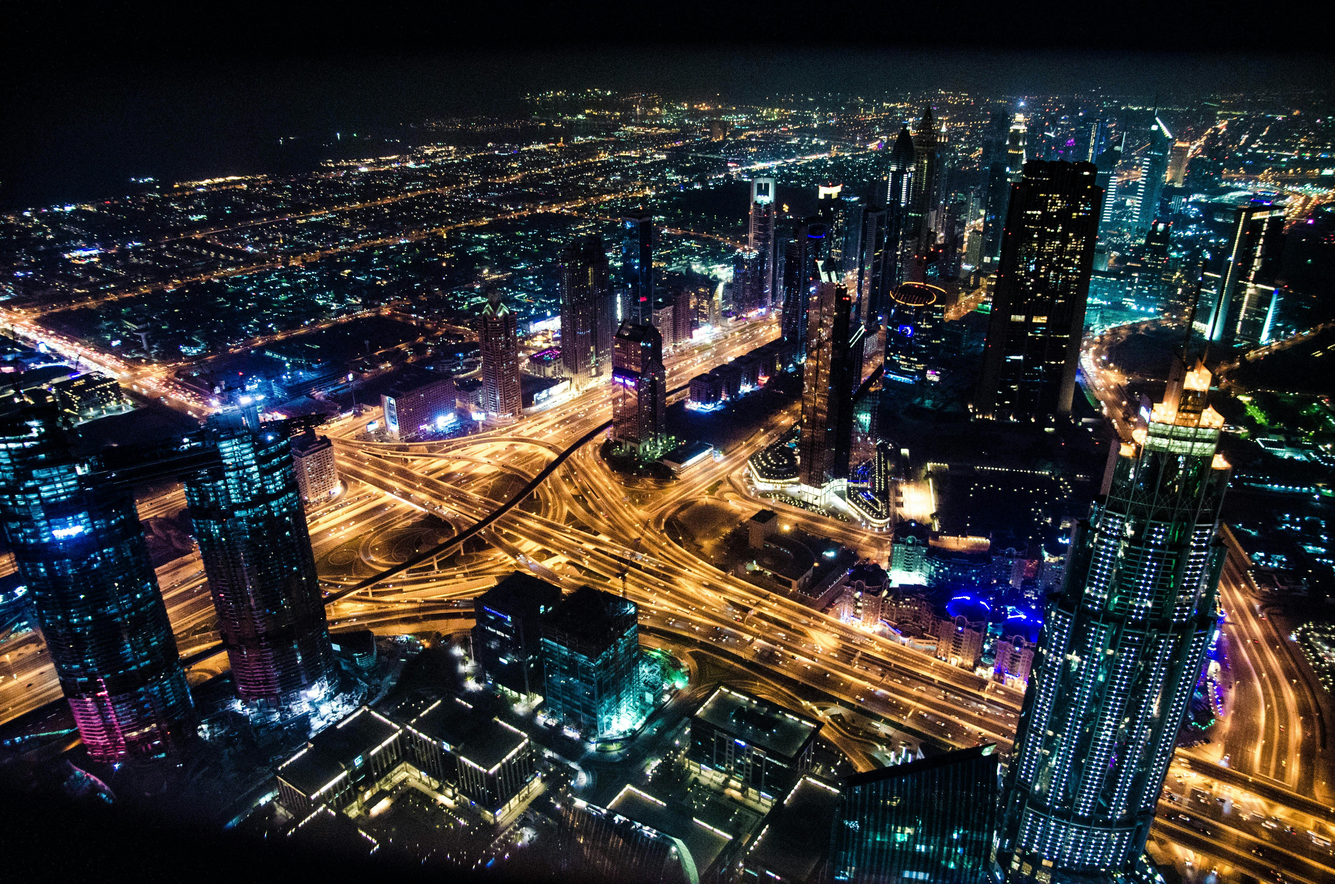
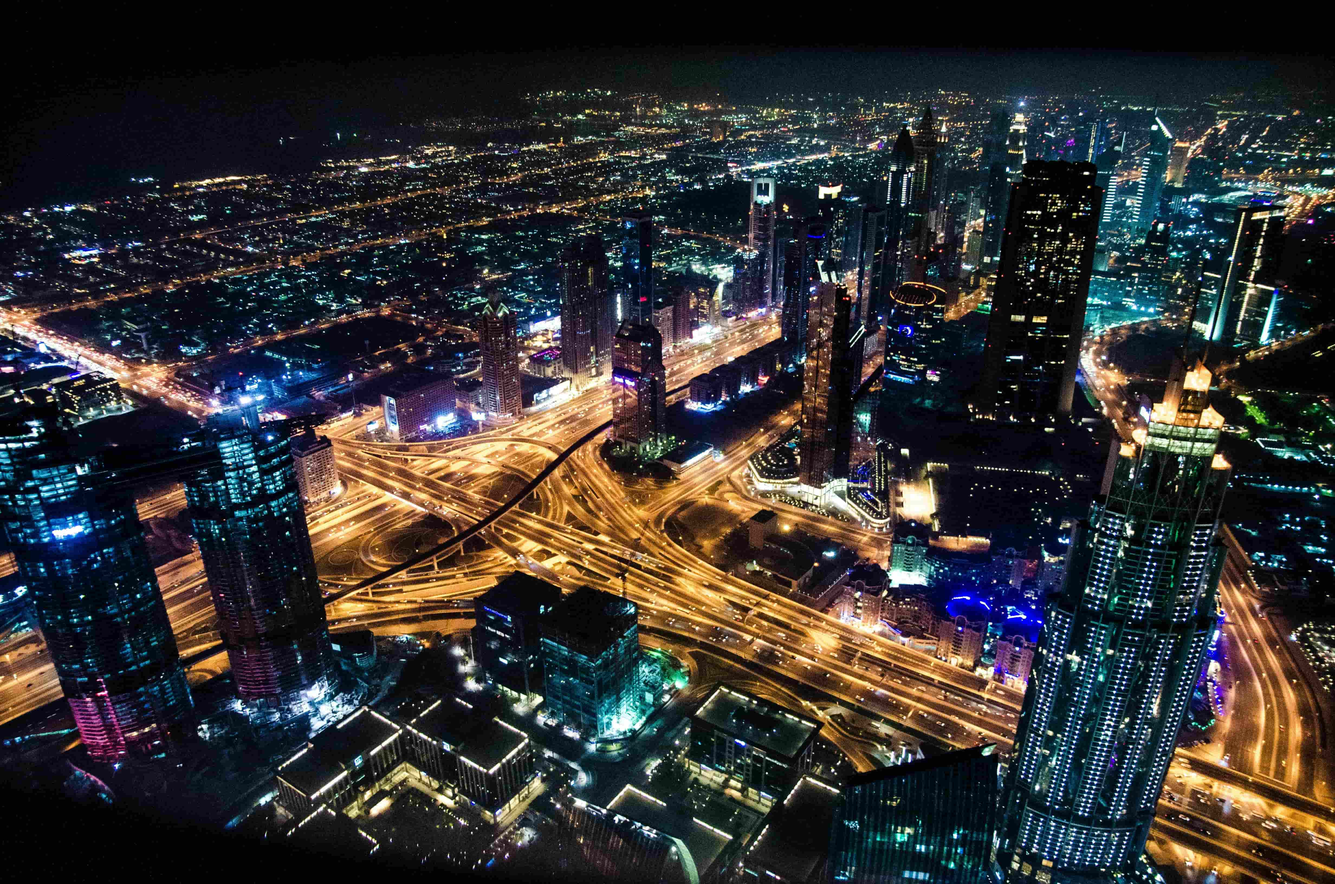
images compressed

Changed region(s): [[0.0, 0.0938, 1.0, 1.0], [0.9688, 0.5938, 1.0, 0.625]]

diff --git a/exalt-frontend/src/pages/Process.jsx b/exalt-frontend/src/pages/Process.jsx
@@ -5,14 +5,14 @@ import CenterFiller from "../components/centerFiller";
 import Navbar from "../components/Navbar";
 import Footer from "../components/Footer";
 
-import pic1 from "../assets/process/pic1.jpg"
-import pic2 from "../assets/process/pic2.jpg"
-import pic3 from "../assets/process/pic3.jpg"
-import pic4 from "../assets/process/pic4.jpg"
-import pic5 from "../assets/process/pic5.jpg"
-import pic6 from "../assets/process/pic6.jpg"
-import pic7 from "../assets/process/pic7.jpg"
-import background from "../assets/Backgrounds/bg7.jpg";
+import pic1 from "../assets/process/pic1-min.jpg"
+import pic2 from "../assets/process/pic2-min.jpg"
+import pic3 from "../assets/process/pic3-min.jpg"
+import pic4 from "../assets/process/pic4-min.jpg"
+import pic5 from "../assets/process/pic5-min.jpg"
+import pic6 from "../assets/process/pic6-min.jpg"
+import pic7 from "../assets/process/pic7-min.jpg"
+import background from "../assets/Backgrounds/bg7-min.jpg";
 
 const Process = () => {
 

diff --git a/exalt-frontend/src/pages/Portfolio.jsx b/exalt-frontend/src/pages/Portfolio.jsx
@@ -1,7 +1,7 @@
-import pic1 from "../assets/portfolio/portfolio1.jpg";
-import pic2 from "../assets/portfolio/portfolio2.jpg";
-import pic3 from "../assets/portfolio/portfolio3.jpg";
-import pic4 from "../assets/portfolio/portfolio4.jpg";
+import pic1 from "../assets/portfolio/portfolio1-min.jpg";
+import pic2 from "../assets/portfolio/portfolio2-min.jpg";
+import pic3 from "../assets/portfolio/portfolio3-min.jpg";
+import pic4 from "../assets/portfolio/portfolio4-min.jpg";
 import CenterFiller from "../components/centerFiller";
 import Navbar from "../components/Navbar";
 import Footer from "../components/Footer";

diff --git a/exalt-frontend/src/pages/IndividualBlog.jsx b/exalt-frontend/src/pages/IndividualBlog.jsx
@@ -3,7 +3,7 @@ import Footer from "../components/Footer";
 import blogData from "../assets/blogsData.json";
 import { useParams } from "react-router-dom";
 import TertiaryPanel from "../components/tertiaryPanel";
-import background from "../assets/Backgrounds/bg4.jpg"
+import background from "../assets/Backgrounds/bg4-min.jpg"
 import CenterFiller from "../components/centerFiller";
 import LeftFiller from "../components/LeftFiller";
 import pic3 from "../assets/about/pic3.jpg";

diff --git a/exalt-frontend/src/pages/Contact.jsx b/exalt-frontend/src/pages/Contact.jsx
@@ -2,8 +2,8 @@ import { useState } from "react";
 import HalfPrimaryPanel from "../components/halfPrimaryPanel";
 import Navbar from "../components/Navbar";
 import Footer from "../components/Footer";
-import background from "../assets/Backgrounds/bg5.jpg";
-import background1 from "../assets/Backgrounds/bg3.jpg";
+import background from "../assets/Backgrounds/bg5-min.jpg";
+import background1 from "../assets/Backgrounds/bg3-min.jpg";
 
 
 

diff --git a/exalt-frontend/src/pages/Blog.jsx b/exalt-frontend/src/pages/Blog.jsx
@@ -61,7 +61,7 @@ import author from "../assets/blogs/Faraz.jpg"
 import Navbar from "../components/Navbar";
 import Footer from "../components/Footer";
 import blogsData from "../assets/blogsData.json";
-import background from "../assets/Backgrounds/bg6.jpg";
+import background from "../assets/Backgrounds/bg6-min.jpg";
 import logo from "../assets/logoPhone.png";
 import { useEffect, useState } from "react";
 

diff --git a/exalt-frontend/src/pages/Services.jsx b/exalt-frontend/src/pages/Services.jsx
@@ -7,7 +7,7 @@ import Navbar from "../components/Navbar";
 import Footer from "../components/Footer";
 import PrimaryPanel from "../components/primaryPanel";
 import pic11 from "../assets/services/pic11.jpg";
-import background from "../assets/Backgrounds/bg4.jpg";
+import background from "../assets/Backgrounds/bg4-min.jpg";
 
 
 const Services = () => {

diff --git a/exalt-frontend/src/pages/Home.jsx b/exalt-frontend/src/pages/Home.jsx
@@ -12,7 +12,6 @@ import Footer from "../components/Footer";
 
 import pic1 from "../assets/Home/pic1.jpg";
 import pic2 from "../assets/Home/pic2.jpg";
-import homeBackground5 from "../assets/homeBackground5.jpg";
 import background from '../assets/homeBackground3.jpg';
 
 
